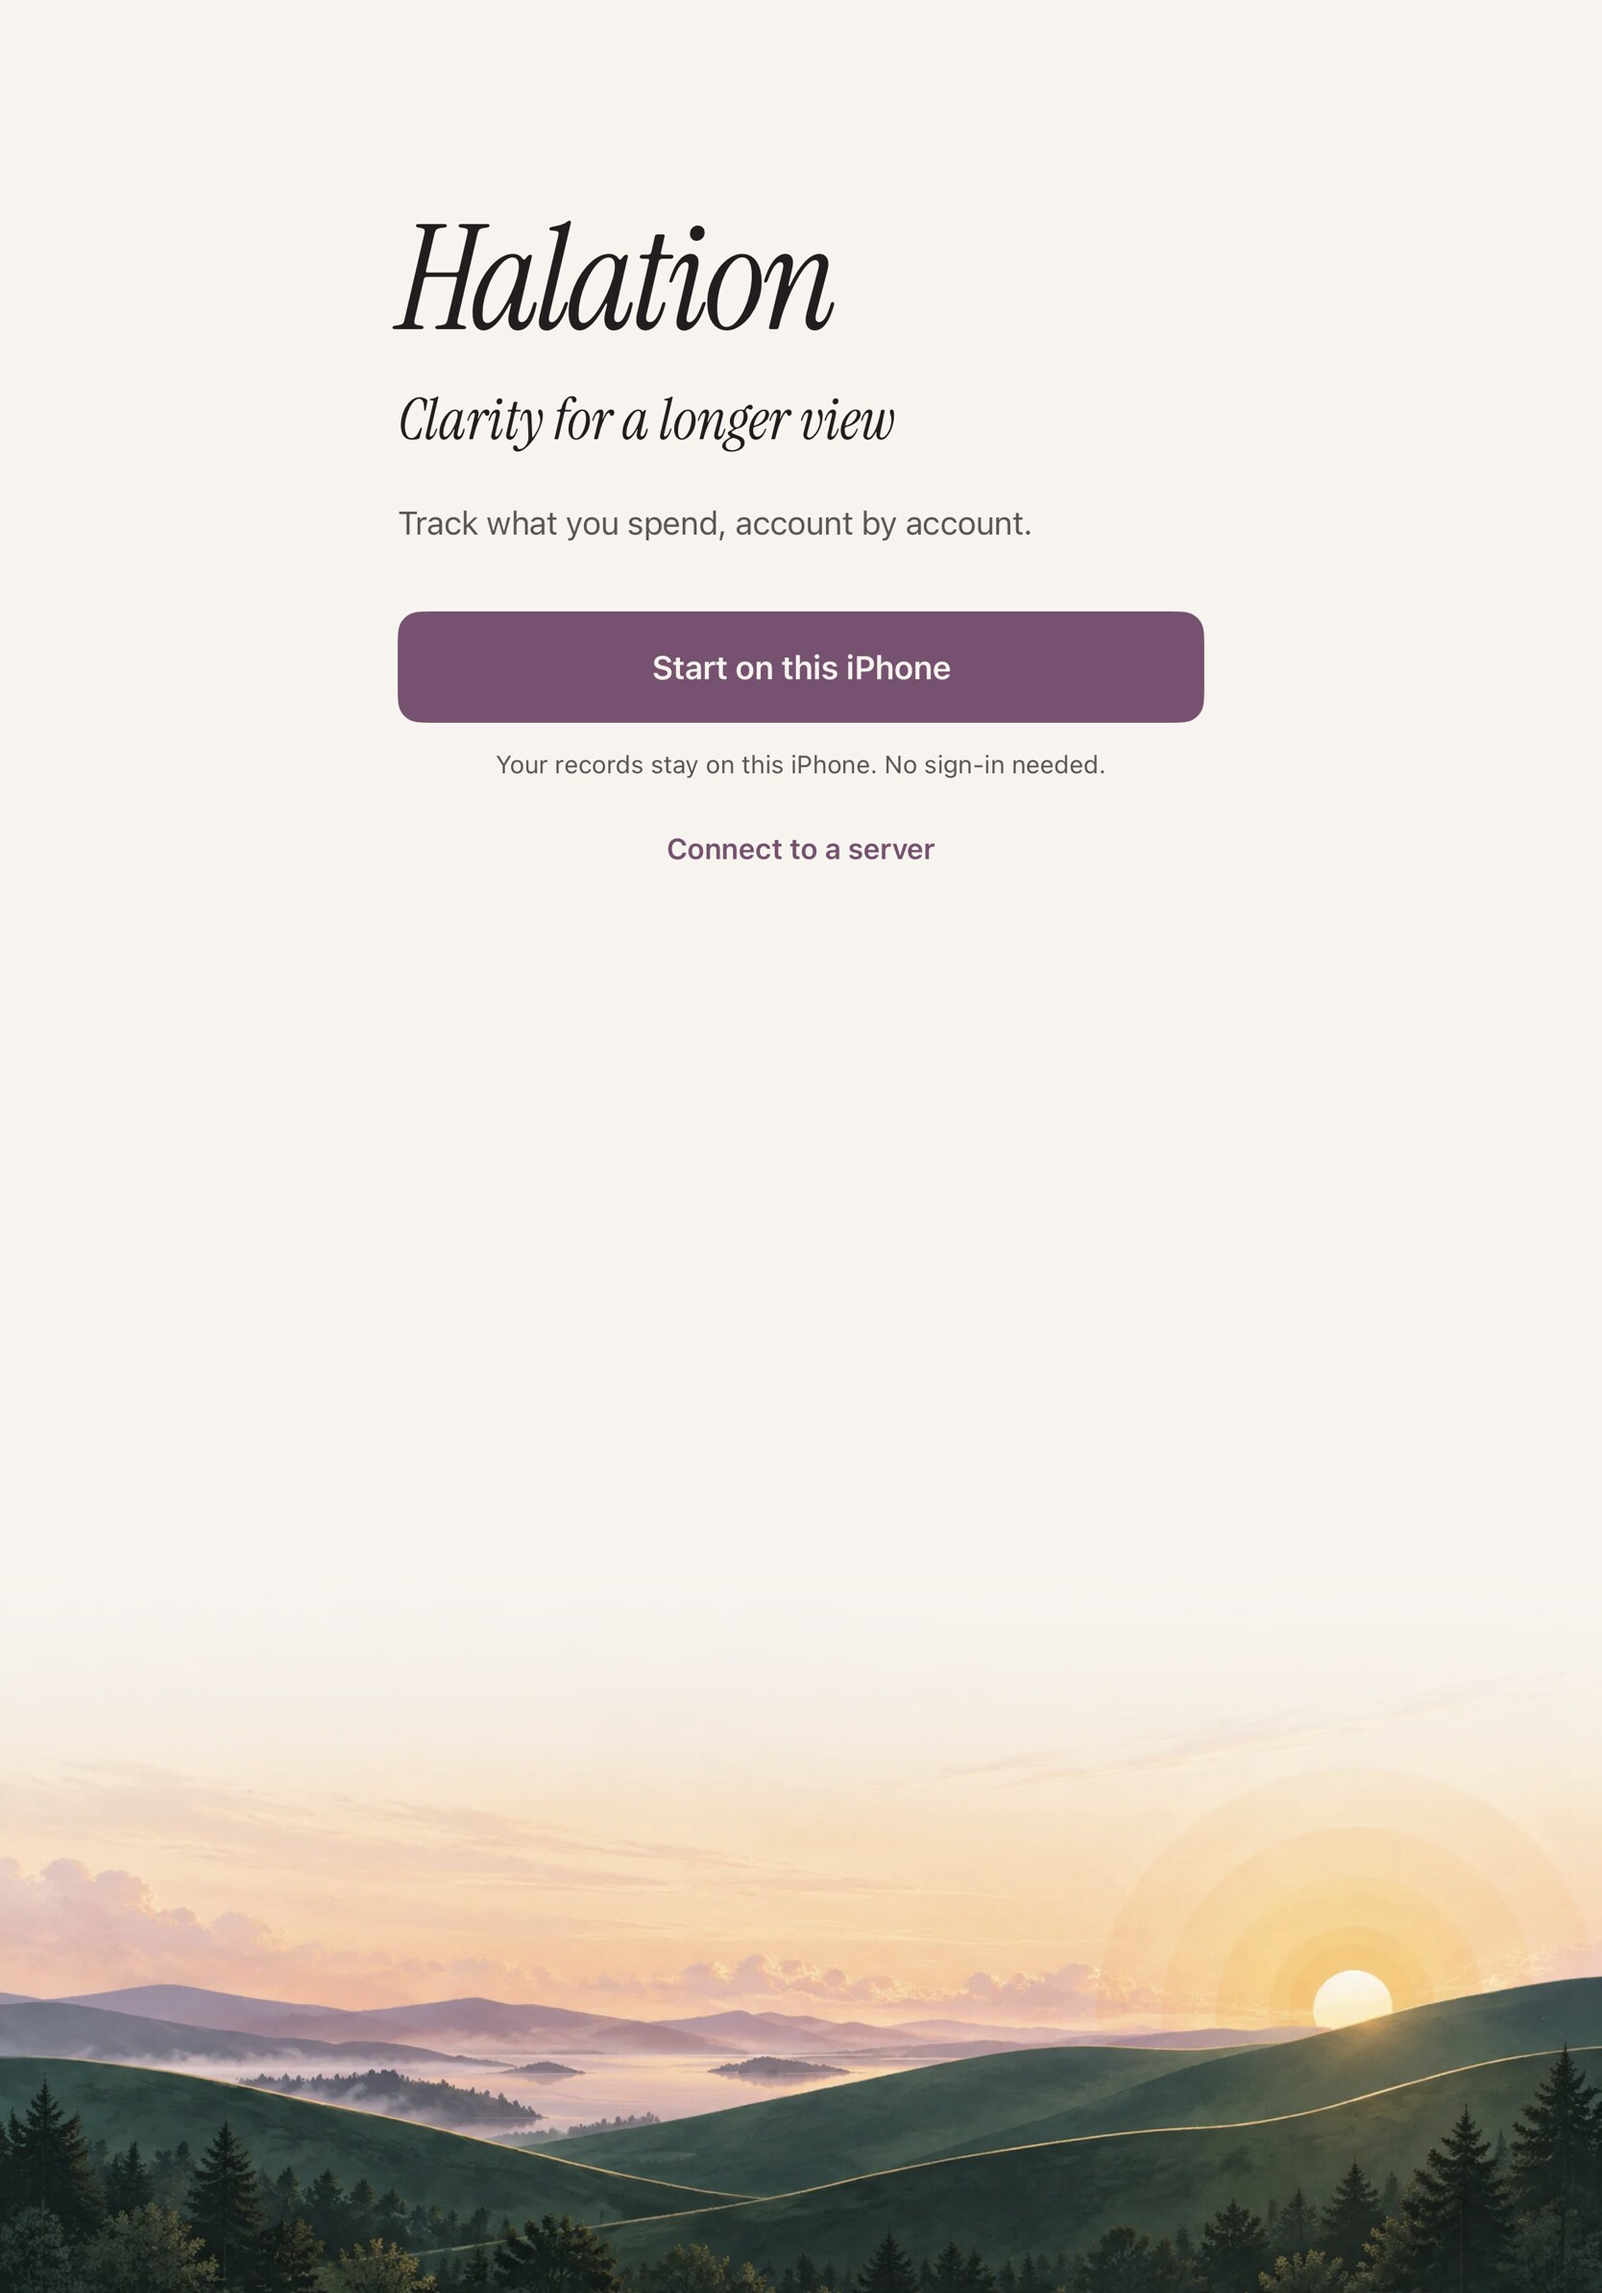
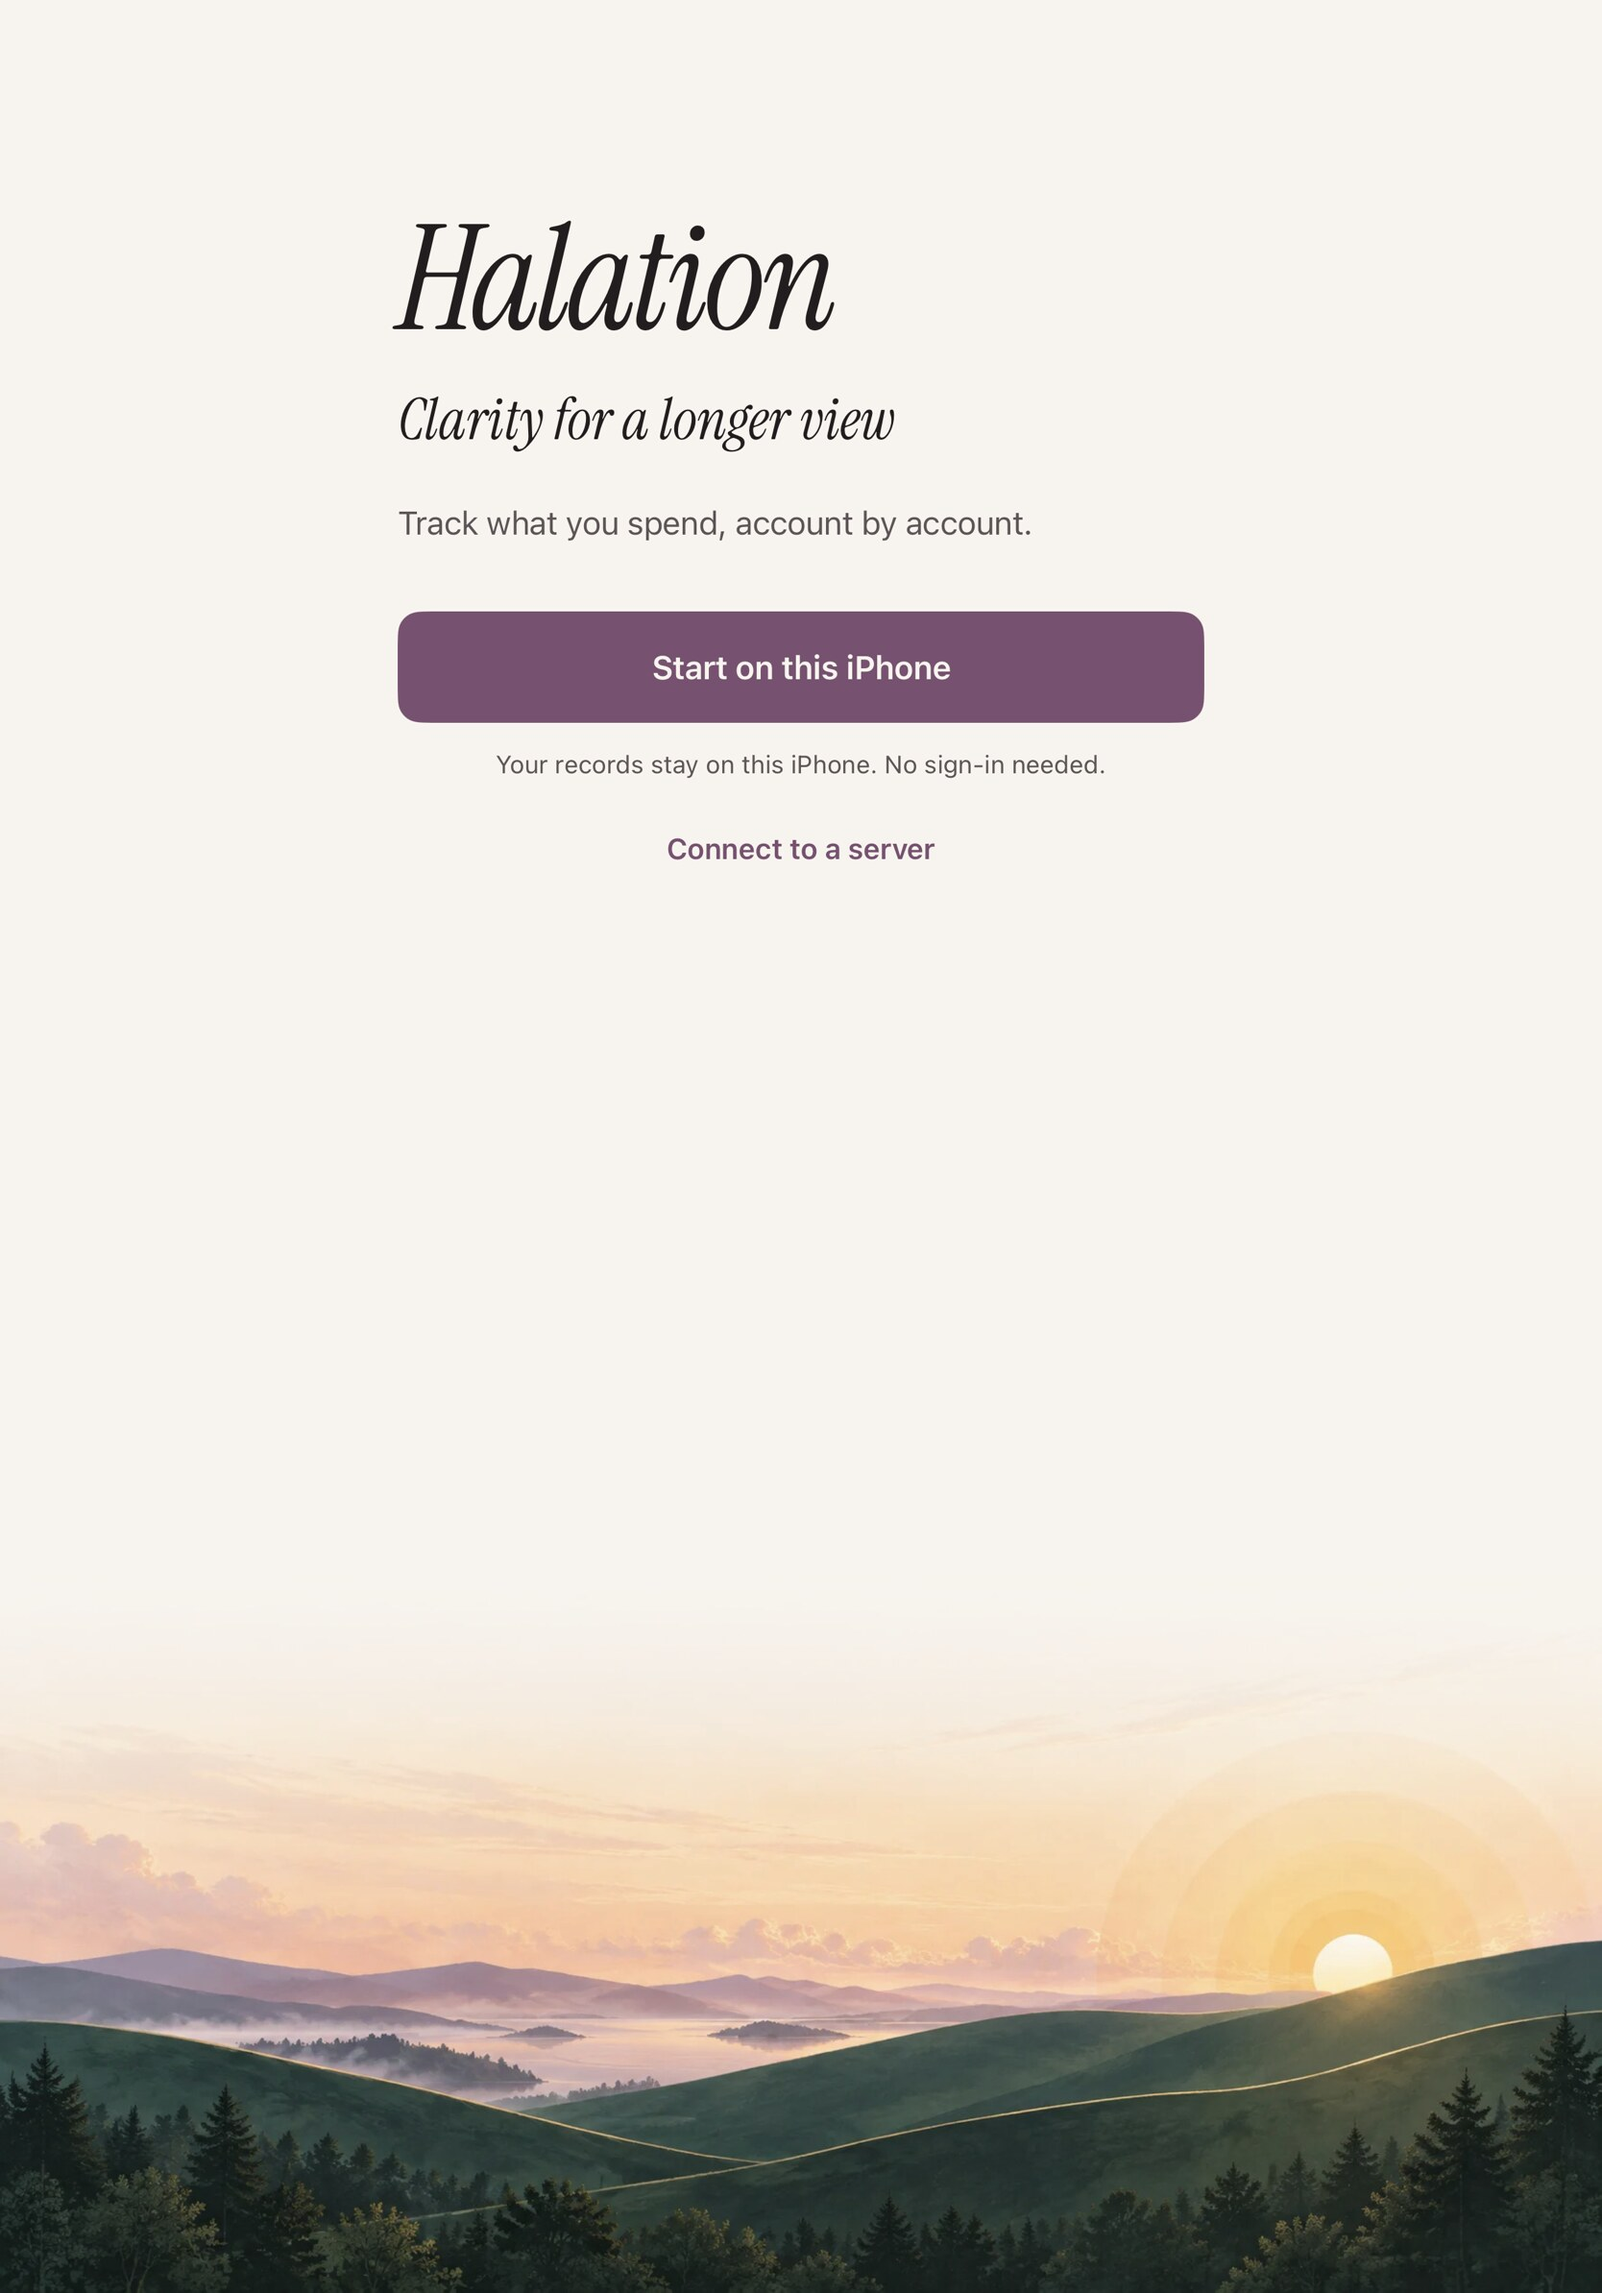
Record landscape fixes and native device previews
Include iPhone portrait and rotated native-root captures, iPad portrait captures and an explicitly labelled wide-window probe. Record final simulator recipe and build evidence.

Amp-Thread-ID: https://ampcode.com/threads/T-01a1a13e-0fdb-7376-a37a-ab251ce7e2fb

Changed region(s): [[0.0, 0.8057, 1.0, 1.0]]

diff --git a/.amp/in/artifacts/halation-welcome/verification.md b/.amp/in/artifacts/halation-welcome/verification.md
@@ -2,8 +2,8 @@
 
 ## Revision and scope
 
-Production source: `ca0669559d685a264693550c87321d1ea57cfbf5`, based on `34d5dc8f4f64bfe6dac8859441e17d34dcb0e3c7`.
-Changes after that source revision in this evidence round are artefacts only.
+Latest production source: `8300e759336b2a21379fbaf79b06af024863be7f`, based on `34d5dc8f4f64bfe6dac8859441e17d34dcb0e3c7`.
+Initial implementation source was `ca0669559d685a264693550c87321d1ea57cfbf5`. The latest source adds the two landscape fixes described below; later commits in this evidence round change artefacts only.
 
 - Reused the actual web `signin-light.webp` and `signin-dark.webp` artwork, converted with ImageMagick to JPEG at quality 92. No regenerated replacement illustration.
 - Reused bundled Instrument Serif Italic for the brand and the web slogan. Matched the web ivory/plum, ink and interactive accent tokens locally to WelcomeView, without restyling the ledger.
@@ -13,7 +13,7 @@ Changes after that source revision in this evidence round are artefacts only.
 Source hashes:
 
 ```text
-c0761423cfd88eac9ea525aa47a5d36c86cc309a80ab3fc59587dedcdf41a250  WelcomeView.swift
+a83d8088c0effc54d099f20e39cede7d853352be7d93a541c9f586d80d3d5ab0  WelcomeView.swift
 215d34bfcc92933b638d098fe450c232a307425f0f095c6d79e52f0f64aa6d41  Formatting.swift
 ```
 
@@ -28,7 +28,7 @@ Acceptance: same artwork and display type, readable controls on quiet paper, no 
 
 ## Native environment and commands
 
-Amp Mac satellite, macos-26, Xcode 26.1.1, iPhone Air simulator on iOS 26.1, HowMuch scheme / Debug, ad-hoc simulator signing only. No Apple credentials, provisioning, physical devices, publication or production data.
+Amp Mac satellite, macos-26, Xcode 26.1.1, HowMuch scheme / Debug, ad-hoc simulator signing only. Initial iPhone Air run used iOS 26.2; final runs used iOS 26.1. Also used an iPad Pro 13-inch (M5) simulator on iOS 26.1. No Apple credentials, provisioning, physical devices, publication or production data.
 
 ```sh
 UDID=$(scripts/ios-xcodebuild.sh destination)
@@ -47,7 +47,7 @@ xcrun simctl io "$UDID" screenshot /tmp/welcome-root-light.png
 Final clean-source run at the committed source above:
 
 ```text
-runner: build-for-testing finished in 3s exit=0
+runner: build-for-testing finished in 9s exit=0
 runner: build-for-testing succeeded; products match this worktree
 Executed 10 tests, with 0 failures (LocalModeTests)
 Executed 36 tests, with 0 failures (SlipReaderMappingTests)
@@ -61,13 +61,13 @@ The currency tests include positive and negative half-cent rounding, euro symbol
 
 The adjacent `validation-harness.patch` is a disposable validation patch, not a permanent test suite addition. It uses the repository's existing SnapshotSurface native UIWindow/accessibility harness with the actual WelcomeView, SettingsView, AppModel, bundled JS backend and isolated on-device SQLite. It was removed from the source before the clean-source run. Its production sources are byte-identical to the committed source revision above.
 
-To repeat on a disposable Mac simulator checkout at that revision: apply the patch with `git apply`, create `/tmp/halation-welcome`, enable accessibility as above, then run:
+To repeat on a disposable Mac simulator checkout at that revision: apply the patch with `git apply --unidiff-zero .amp/in/artifacts/halation-welcome/validation-harness.patch`, create `/tmp/halation-welcome`, boot the selected simulator and enable accessibility as above, then run:
 
 ```sh
 mkdir -p /tmp/halation-welcome
 scripts/ios-xcodebuild.sh test -- -only-testing:HowMuchTests/LocalModeTests
 # After inspection, remove only this disposable patch:
-git apply --reverse .amp/in/artifacts/halation-welcome/validation-harness.patch
+git apply --reverse --unidiff-zero .amp/in/artifacts/halation-welcome/validation-harness.patch
 ```
 
 Observed: 12 tests, zero failures, including both temporary welcome scenarios.
@@ -78,7 +78,7 @@ Observed: 12 tests, zero failures, including both temporary welcome scenarios.
 4. Pointed the isolated local engine at `/dev/null/unwritable.sqlite`, activated local start and observed a real filesystem failure. Error text appears; model remains on welcome and both buttons re-enable. This synthetic error deliberately includes the invalid test path, not user data.
 5. Found and fixed an accessibility-only orphaned final letter in the display wordmark during visual inspection. The final wordmark stays on one line; functional copy still scales and wraps.
 
-Native harness recording `validation.mp4` shows native windows and the Connection screen, trimmed from simctl video, inspected at 3 fps. It uses accessibility activation and harness scrolling, not physical touch or mouse input. Smaller UIWindow probes intentionally occupy part of the simulator, so the video is harness evidence, not a polished device demo.
+Native harness recording `validation.mp4` shows the initial implementation's native windows and Connection screen, trimmed from simctl video, inspected at 3 fps. It uses accessibility activation and harness scrolling, not physical touch or mouse input. Smaller UIWindow probes intentionally occupy part of the simulator, so the video is harness evidence, not a polished device demo. The final still captures supersede its landscape crop. The same 12-test welcome recipe passed again after both landscape fixes, including persisted local start, server entry/back and real local failure recovery.
 
 ## Inspected visual evidence
 
@@ -89,6 +89,30 @@ Native harness recording `validation.mp4` shows native windows and the Connectio
 - `connection.jpg`, `error.jpg`: native Connection and real local-engine failure state.
 
 All final PNG captures were inspected before conversion to JPEG at quality 88 to keep review artefacts small. The final contact sheet and video frames were also inspected. No clipping in functional controls, no landscape seam, no tabs bleeding through welcome. Text cropped above the viewport in scrolled states is expected.
+
+## Independent review and landscape fixes
+
+Opus 5.5 at high effort, external-agent Claude Code subscription orb, reviewed the complete diff `34d5dc8...0a2b3e3` for correctness and compatibility/operability. It found no correctness blockers, confirmed the recorded hashes, artwork identity and unchanged formatter key, and measured approximately 4.9:1 or better text contrast. Two low-severity findings held up: landscape horizontal safe-area gutters were possible, and a centred vertical image crop could remove the tree line on a wide iPad. Both were fixed in `8300e75`: ignore horizontal safe areas for the full-width composition and use bottom-trailing artwork alignment.
+
+The formatter change is classified as a non-calculation, type-only inference refactor: all six key strings, ordering and separator are unchanged, with no change to money arithmetic or formatting outputs. Therefore the ordinary one-reviewer, Opus-high rule applies, not the money-calculation two-reviewer rule. The unused BrandIcon resource is left untouched; it is not a behaviour or correctness defect.
+
+`rotation-validation-harness.patch` is an additional disposable probe. On iPhone Air, the public scene geometry request produced a real rotated native root window at 912×420 points with 68-point left/right safe areas. The welcome scroll view was 912 points wide, content 912×660. The probe passed and the captured scrolled artwork reaches both edges with foreground trees intact. On iPad Pro 13-inch, a 1376×1032-point native UIWindow probe passed, with both actions inside bounds and the complete bottom tree line. Actual iPad programmatic rotation was refused with UISceneErrorDomain 101, “The current windowing mode does not allow for programmatic changes to interface orientation.” Simulator UI automation also lacked a functioning display/UI-event route. This is a preview gap, not a reason to alter app orientation policy.
+
+Two post-review scratch runs initially found no accessibility controls because the newly selected iOS 26.1 phone had not been booted and given the accessibility defaults. After enabling both documented defaults on that exact simulator, the same source and harness passed all 12 tests. Initial attempts to select the underlying account scroll view in the rotation probe were corrected to select the actual overflowing full-width welcome scroll view. These are fixture/executor corrections, not product changes. Final clean-source tests passed 46/46 afterwards.
+
+## Requested iPhone and iPad previews
+
+All screenshots below show latest production source `8300e759336b2a21379fbaf79b06af024863be7f` on the Amp Mac satellite, not a physical device. Paths are relative to this evidence directory in the lead orb at `/home/user/workspace/repo/.amp/in/artifacts/halation-welcome/`.
+
+| Screenshot | Device / orientation | Native viewport | Capture |
+| --- | --- | --- | --- |
+| welcome-root-dark.jpg / welcome-root-light.jpg | iPhone Air, portrait, iOS 26.1 | 420×912 pt, 1260×2736 px | Installed app, simctl framebuffer, dark/light |
+| phone-landscape-top.jpg | iPhone Air, landscape, iOS 26.1 | 912×420 pt, 2736×1260 px | Actual rotated root UIWindow, top scroll position |
+| phone-landscape-artwork.jpg | iPhone Air, landscape, iOS 26.1 | 912×420 pt, 2736×1260 px | Same actual root, scrolled to artwork, light |
+| ipad-portrait-dark.jpg / ipad-portrait-light.jpg | iPad Pro 13-inch (M5), portrait, iOS 26.1 | 1032×1376 pt, 2064×2752 px | Installed app, simctl framebuffer, dark/light |
+| ipad-wide-artwork.jpg | iPad Pro 13-inch (M5), wide-layout probe | 1376×1032 pt, 2752×2064 px | Supplementary sized UIWindow, not actual device rotation |
+
+No merge or release follows from this preview request. The actual iPad landscape orientation capture remains unavailable for the specific executor reasons above; the wide native-layout probe is clearly labelled as supplementary.
 
 ## Known limits and delivery gate
 
